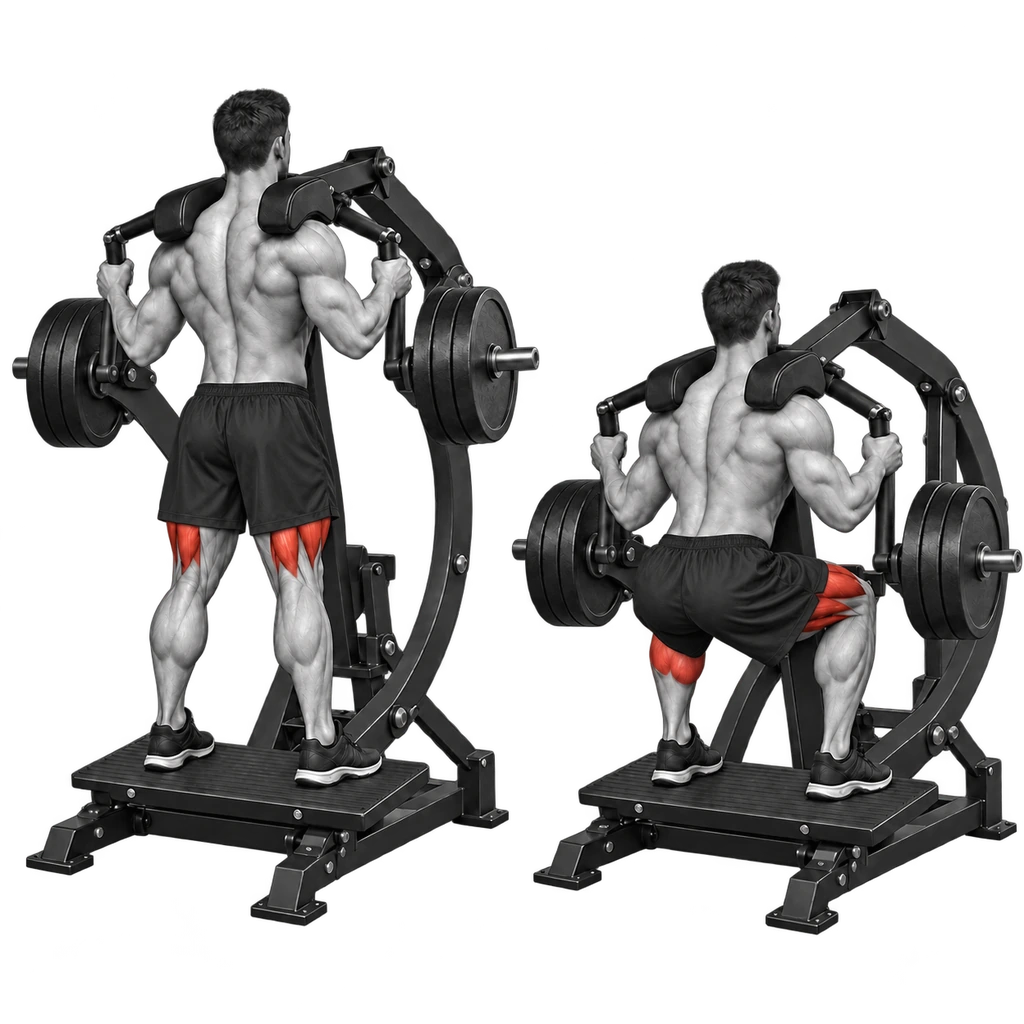
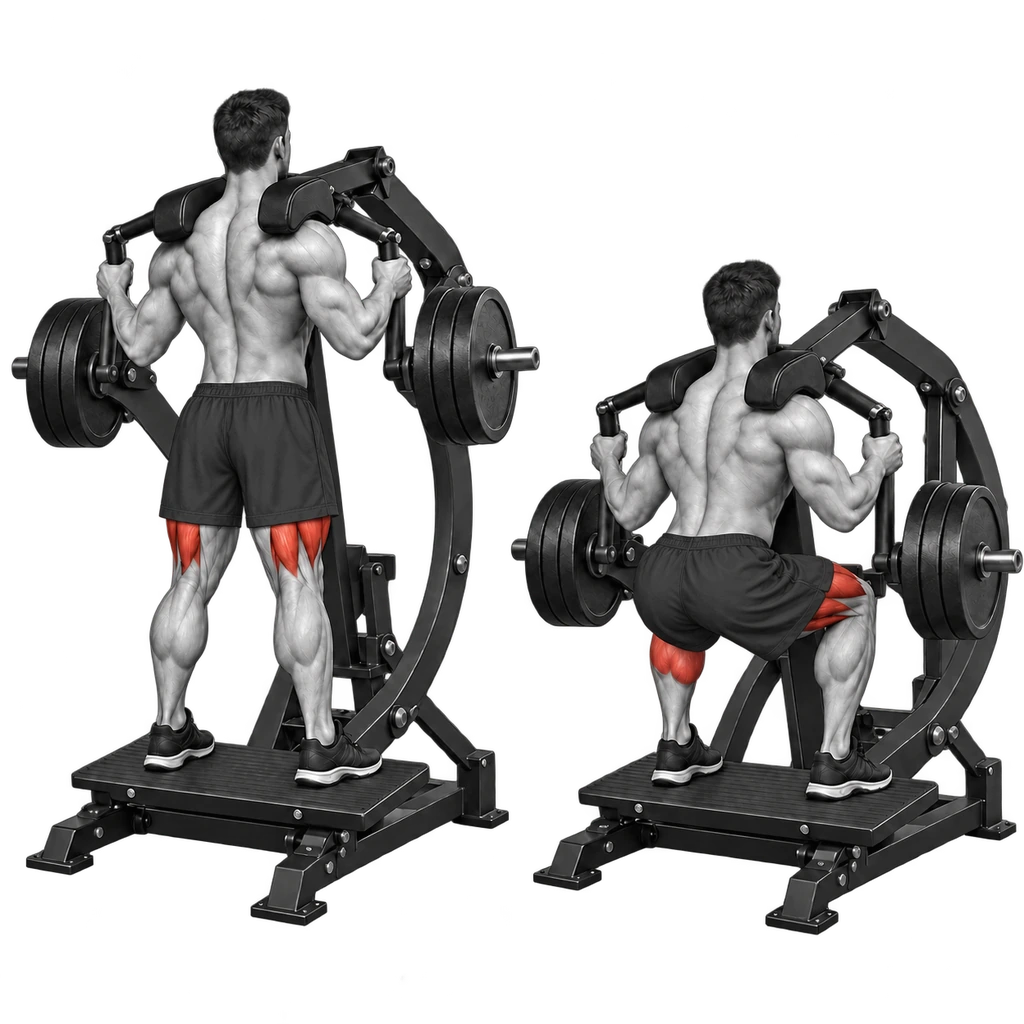
Loosen Super Squat Press shorts

diff --git a/docs/pilots/major-muscle-gap-2026-10-22.md b/docs/pilots/major-muscle-gap-2026-10-22.md
@@ -141,9 +141,9 @@ The ten-record follow-up and twenty-nine later priority-movement records use Atl
 
 ## Plate-Loaded Super Squat Press illustration correction
 
[2 lines of base64/hex data omitted]
 - **Date and creator:** 2026-10-22; Open Exercise Atlas, using the built-in OpenAI image generator. The tool did not expose a model identifier.
-- **Method:** After Yağız reported that the previous shorts still read as nudity, edited the original two-pose illustration again while preserving the machine, poses, muscle highlights, grayscale style, and transparent background. Replaced the fitted shorts with loose, matte opaque black shorts, roomy through the seat and thighs, with straight mid-thigh hems and draped fabric that covers the buttocks and groin in both poses. The output is a 1254 × 1254 RGBA PNG resized to 1024 × 1024 and converted to WebP with Pillow/libwebp (quality 92, alpha retained; alpha extrema 0–255).
+- **Method:** After Yağız flagged the illustration for clearer coverage, edited the original two-pose illustration while preserving the machine, poses, muscle highlights, grayscale style, and transparent background. Replaced the shorts with a loose, matte opaque black pair, roomy through the seat and thighs, with straight mid-thigh hems and draped fabric that fully covers the buttocks and groin in both poses. The output is a 1254 × 1254 RGBA PNG resized to 1024 × 1024 and converted to WebP with Pillow/libwebp (quality 92, alpha retained; alpha extrema 0–255).
 - **Source and rights:** This is an edit of Atlas's existing original AI-assisted illustration; no third-party artwork was imported. The project dedicates any rights it holds in this original illustration under [CC0 1.0](https://creativecommons.org/publicdomain/zero/1.0/). [OpenAI Terms of Use](https://openai.com/policies/terms-of-use/) assign output to the user to the extent permitted by applicable law; outputs may not be unique, and no exclusivity is claimed. Generated media is not expert technique approval.
 - **Record:** [`plate-loaded-super-squat-press.json`](../data/exercises/plate-loaded-super-squat-press.json).
 

diff --git a/docs/media-provenance.md b/docs/media-provenance.md
@@ -339,9 +339,9 @@ Three original AI-assisted illustrations added for Dumbbell Reverse Lunge, Cable
 
 ## Plate-Loaded Super Squat Press illustration correction
 
[2 lines of base64/hex data omitted]
 - **Date and creator:** 2026-10-22; Open Exercise Atlas, using the built-in OpenAI image generator. The tool did not expose a model identifier.
-- **Method:** After the user reported that the shorts still made the athlete look nude, edited the original two-pose illustration again, preserving the machine, pose, muscle highlights, grayscale style, and transparent background. Replaced the shorts in both poses with loose, matte opaque black shorts; the relaxed fabric fully covers the buttocks and groin without anatomical contours. The 1254 × 1254 RGBA PNG was resized to 1024 × 1024 and converted to WebP with Pillow/libwebp (quality 92, alpha retained). Highlighted quadriceps remain visible below the hems.
+- **Method:** After Yağız asked for clearer coverage, edited the original two-pose illustration, preserving the machine, poses, muscle highlights, grayscale style, and transparent background. Replaced the shorts in both poses with a looser matte opaque black pair; the fabric fully covers the buttocks and groin without anatomical contours. The 1254 × 1254 RGBA PNG was resized to 1024 × 1024 and converted to WebP with Pillow/libwebp (quality 92, alpha retained). Highlighted quadriceps remain visible below the hems.
 - **Source and rights:** This is an edit of Atlas's existing original AI-assisted illustration; no third-party artwork was imported. The project dedicates any rights it holds in this original illustration under [CC0 1.0](https://creativecommons.org/publicdomain/zero/1.0/). [OpenAI Terms of Use](https://openai.com/policies/terms-of-use/) assign output to the user to the extent permitted by applicable law; outputs may not be unique, and no exclusivity is claimed. Generated media is not expert technique approval.
 - **Record:** [`plate-loaded-super-squat-press.json`](../data/exercises/plate-loaded-super-squat-press.json).
 
